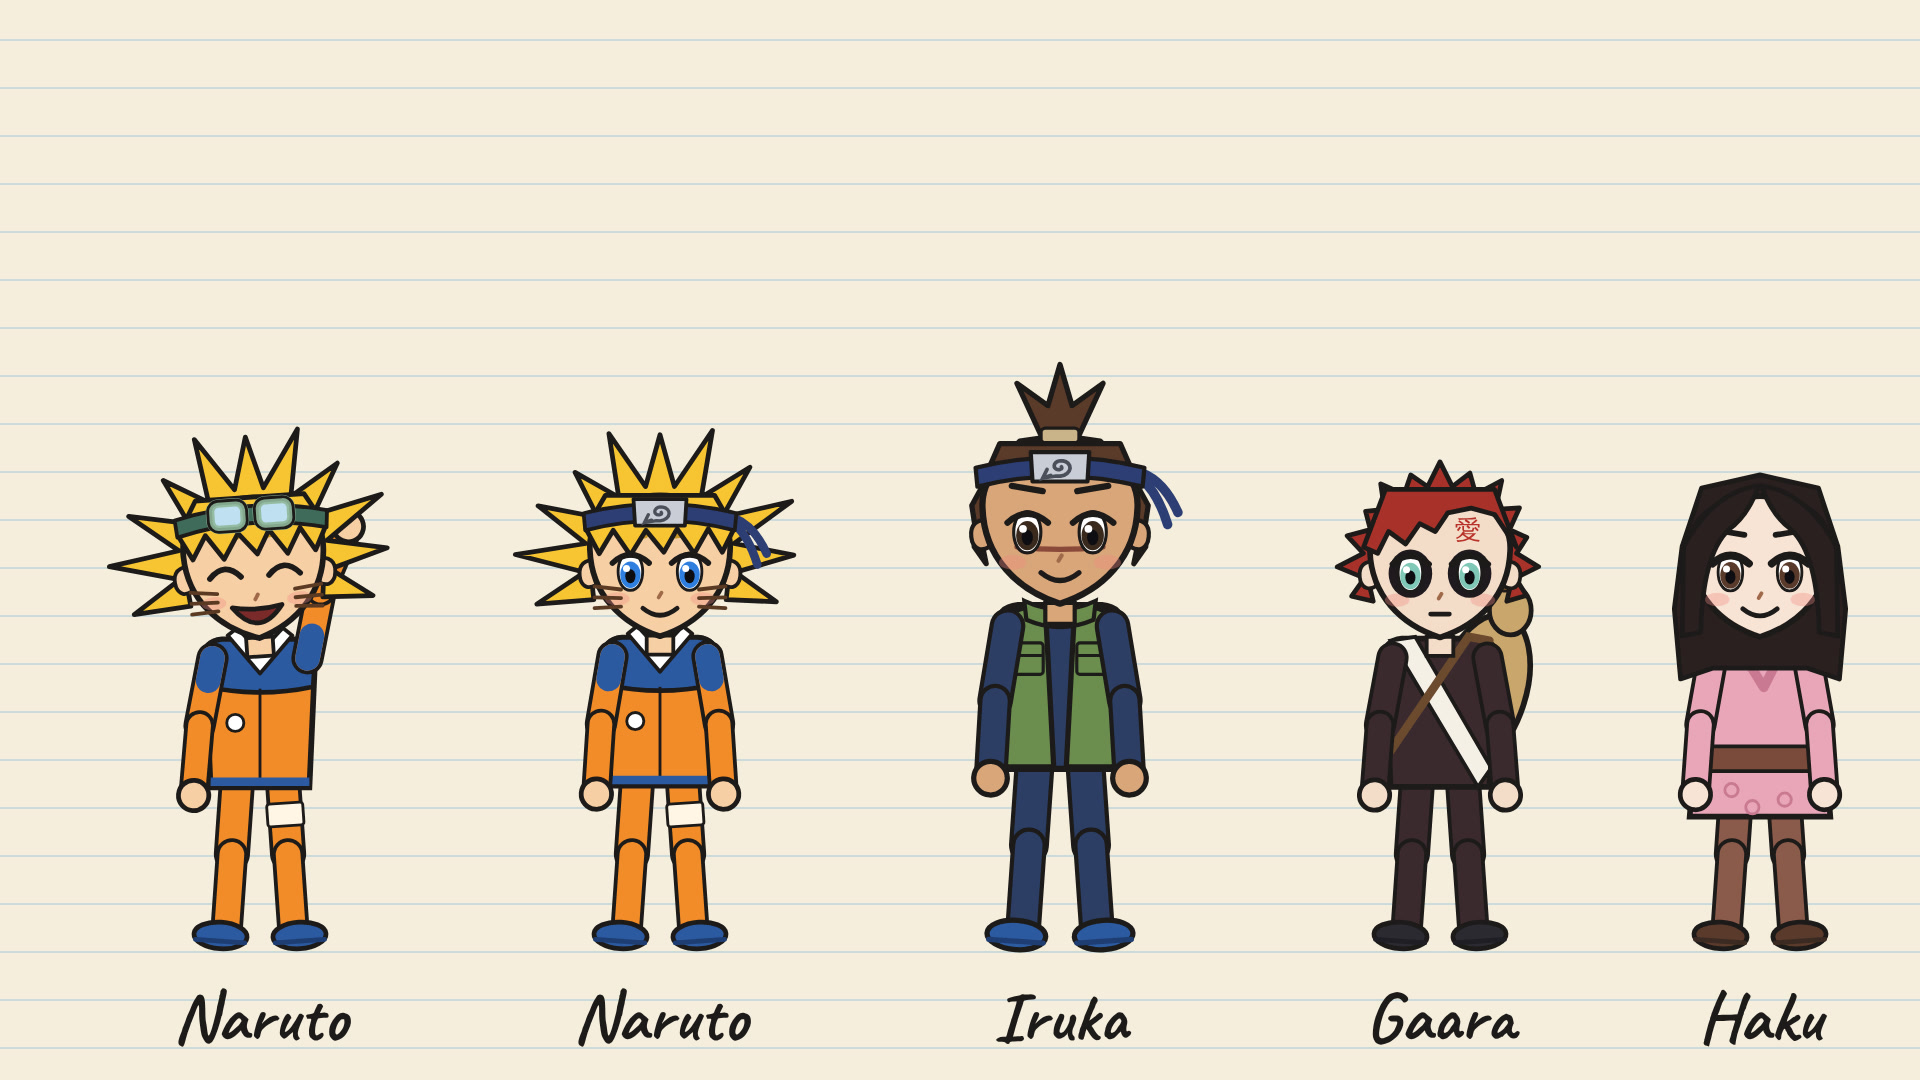
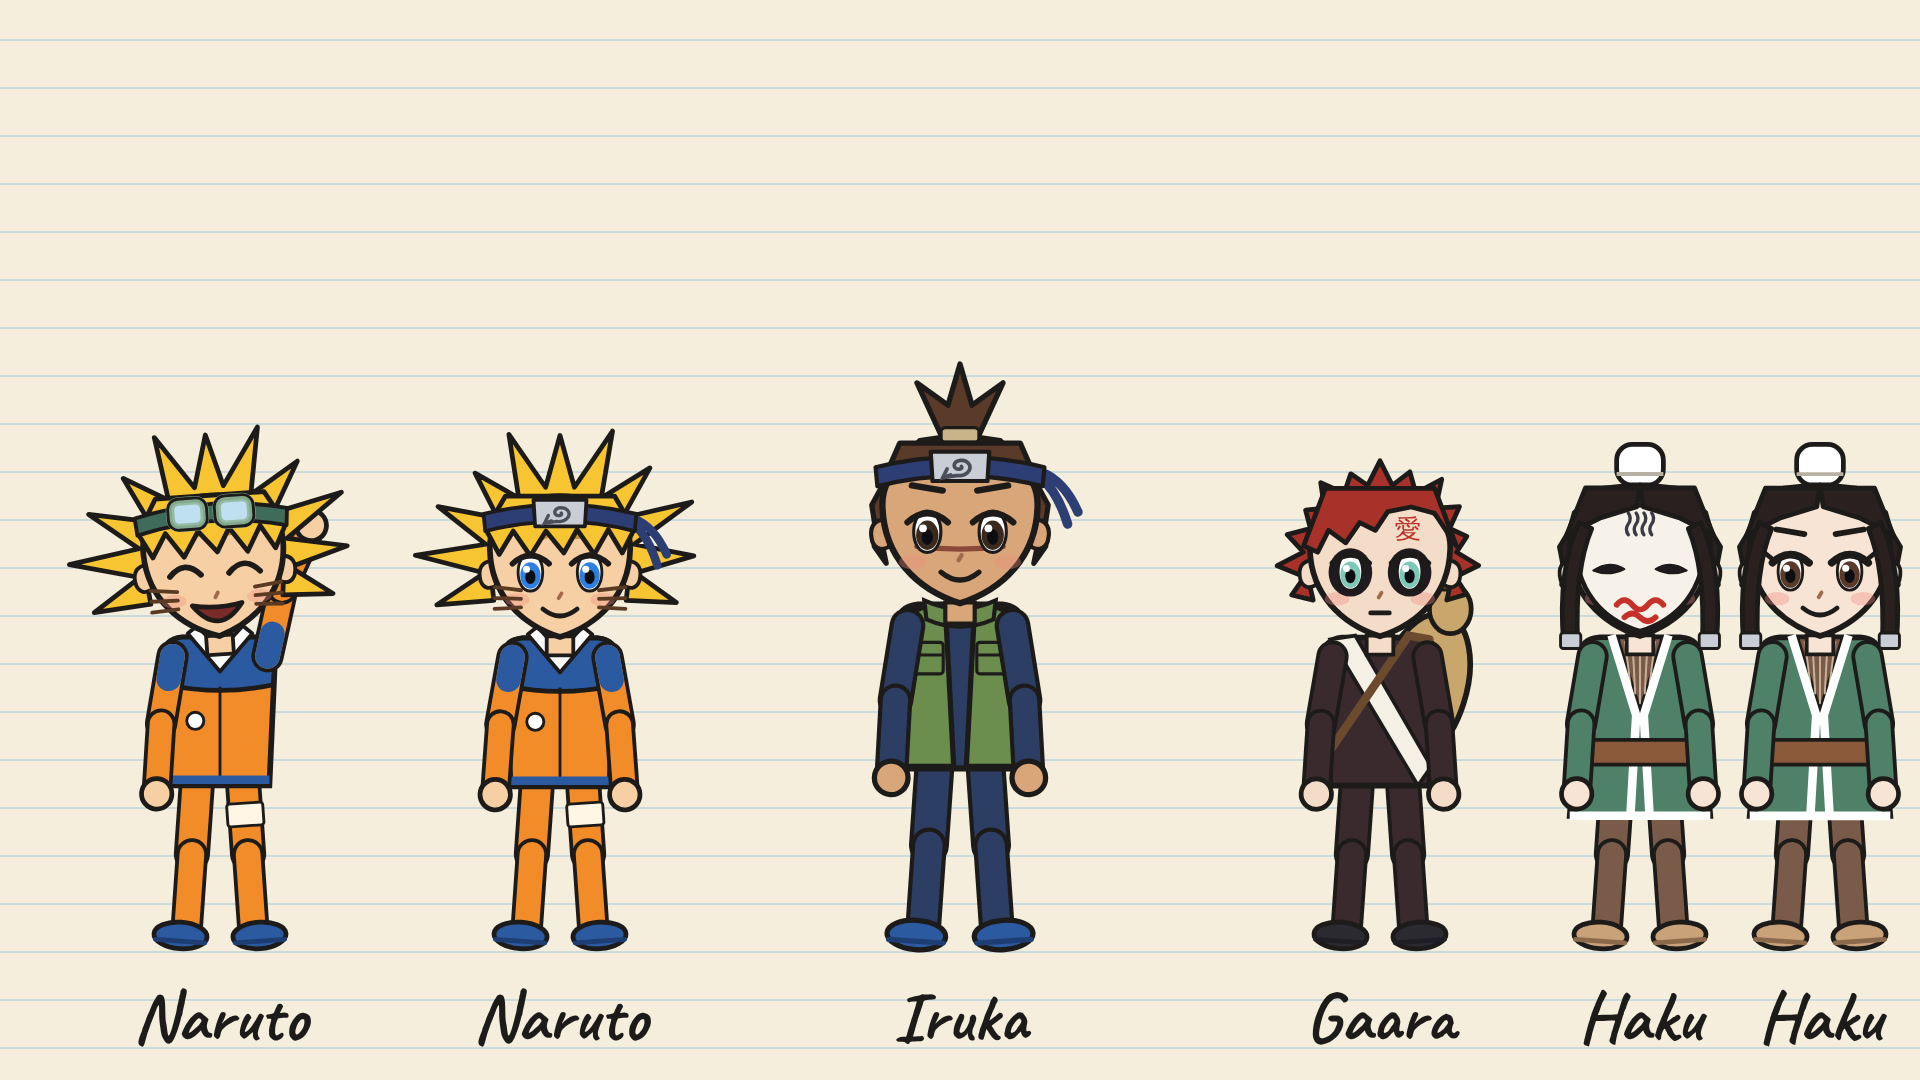
Social Ripple: Haku model sheet matched to canon; continuity standard
Claude-Session: https://claude.ai/code/session_01BFgAxmP7ubruifvaTKx5Vg

diff --git a/research/meta-muse/social-ripple/shorts/kit/cast.js b/research/meta-muse/social-ripple/shorts/kit/cast.js
@@ -18,7 +18,7 @@
       naruto: { skin: "#F6CFA4", hair: "#F7C531", hairStyle: "naruto", top: "#F28C28", top2: "#2C5AA0", pants: "#F28C28", shoe: "#2C5AA0", sole: "#1E3E73", eye: "#2F7FE0", whiskers: true, narutoJacket: true, holster: true, accs: ["goggles", "band"], acc: "goggles", brows: "thick", browCol: "#C9962A" },
       iruka: { skin: "#D9A679", hair: "#5A3A28", hairStyle: "topknot", top: "#2C3E63", top2: "#22304E", pants: "#2C3E63", shoe: "#2C5AA0", sole: "#1E3E73", eye: "#3A2A1E", noseScar: true, flak: "#6B8E4E", accs: ["band"], acc: "band" },
       gaara: { skin: "#F3DCC8", hair: "#A8322A", hairStyle: "gaara", top: "#3A2A2E", top2: "#2A1E22", pants: "#3A2A2E", shoe: "#2A2A30", sole: "#1E1E24", eye: "#7FC8B8", rings: true, noBrows: true, kanji: true, sash: true, gourd: true },
-      haku: { skin: "#F8E4D4", hair: "#2A2020", hairStyle: "hakulong", top: "#E8A6B8", top2: "#C97A92", pants: "#8A5A4A", shoe: "#5A3A2A", sole: "#3A2A22", eye: "#5A3A2A", lash: true, coat: true, kimono: true },
+      haku: { skin: "#F8E4D4", hair: "#2A2020", hairStyle: "hakubun", top: "#4F8068", top2: "#3E6653", pants: "#7A5A48", shoe: "#C9A27A", sole: "#8A6A4A", eye: "#5A3A2A", lash: true, coat: true, haori: true, accs: ["mask"], acc: "mask" },
       rue: { skin: "#F6D2B4", hair: "#6B3A22", hairStyle: "pony", top: "#F28C6A", top2: "#E07A58", pants: "#7F9CC8", shoe: "#F4F4F0", sole: "#C8A070", eye: "#3E8E5A", freckles: true, bandage: true, puffer: true, wide: true },
     };
     const POSES = {
@@ -61,7 +61,9 @@
       if (c.flak) { el("path", { d: "M-56,-132 Q-40,-150 -14,-146 L-6,6 L-54,6 Z M56,-132 Q40,-150 14,-146 L6,6 L54,6 Z", fill: c.flak, stroke: INK, "stroke-width": 5 }, torso); [-1, 1].forEach((d) => { el("rect", { x: d > 0 ? 16 : -46, y: -112, width: 30, height: 30, rx: 3, fill: c.flak, stroke: INK, "stroke-width": 3 }, torso); el("path", { d: `M${d > 0 ? 16 : -46},-100 h30`, stroke: INK, "stroke-width": 3 }, torso); });
         el("path", { d: "M-34,-152 Q0,-136 34,-152 L32,-134 Q0,-120 -32,-134 Z", fill: c.flak, stroke: INK, "stroke-width": 4 }, torso); }
       if (c.sash) { el("path", { d: "M-52,-146 L-26,-150 L54,-12 L40,8 Z", fill: "#F4F0E6", stroke: INK, "stroke-width": 4 }, torso); el("path", { d: "M52,-146 L30,-150 L-52,-30", fill: "none", stroke: "#6B4A2E", "stroke-width": 9, "stroke-linecap": "round" }, torso); }
-      if (c.kimono) { el("path", { d: "M-28,-148 L4,-96 L30,-148", fill: "none", stroke: c.top2, "stroke-width": 10, "stroke-linejoin": "round" }, torso); el("path", { d: "M-66,-34 H66 L68,-8 H-68 Z", fill: "#7A4A3A", stroke: INK, "stroke-width": 4 }, torso); [[-30, 12], [26, 22], [-8, 30]].forEach(([x2, y2]) => el("circle", { cx: x2, cy: y2, r: 7, fill: "none", stroke: c.top2, "stroke-width": 3 }, torso)); }
+      if (c.haori) { el("path", { d: "M-24,-148 L0,-70 L24,-148 Z", fill: "#7A5A48", stroke: INK, "stroke-width": 4 }, torso); for (let k = -2; k <= 2; k++) el("path", { d: `M${k * 8},-144 L${k * 5},-${78 + Math.abs(k) * 10}`, stroke: "#C9B49A", "stroke-width": 2 }, torso);
+        el("path", { d: "M-30,-150 L-4,-66 L-10,38 M30,-150 L4,-66 L10,38", fill: "none", stroke: "#FFFFFF", "stroke-width": 9, "stroke-linejoin": "round" }, torso); el("path", { d: "M-74,40 H74", stroke: "#FFFFFF", "stroke-width": 9 }, torso);
+        el("path", { d: "M-66,-40 H66 L68,-14 H-68 Z", fill: "#8A5A3A", stroke: INK, "stroke-width": 4 }, torso); }
       const det = el("g", {}); Array.from(torso.childNodes).slice(n0).forEach((nd) => det.appendChild(nd)); torso.appendChild(det);
       // ---- arms (shoulders at ±50,-128)
       const sleeve = c.top;
@@ -86,7 +88,7 @@
       if (c.hairStyle === "naruto") P(poly(ring(150, 390, 22, 0.98, 1.72, 0.14).concat([[0.9, 0.05], [-0.9, 0.05]])), c.hair, 5);
       if (c.hairStyle === "gaara") P(poly(ring(150, 390, 26, 0.99, 1.24, 0.08).concat([[0.95, 0.1], [-0.95, 0.1]])), c.hair, 5);
       if (c.hairStyle === "topknot") { P(poly([[-0.2, -0.95], [-0.5, -1.6], [-0.14, -1.34], [0, -1.82], [0.14, -1.34], [0.5, -1.6], [0.2, -0.95]]), c.hair, 5); P(poly(ring(150, 390, 18, 0.99, 1.04, 0.0).concat([[0.95, 0.05], [-0.95, 0.05]])), c.hair, 5); el("rect", { x: -18, y: -228 - 1.08 * r, width: 36, height: 14, rx: 4, fill: "#C9B48A", stroke: INK, "stroke-width": 3 }, headG); }
-      if (c.hairStyle === "hakulong") P(poly([[-1.0, -0.2], [-1.1, 0.6], [-1.02, 1.5], [-0.6, 1.36], [0.6, 1.36], [1.02, 1.5], [1.1, 0.6], [1.0, -0.2], [0.75, -0.95], [0, -1.12], [-0.75, -0.95]]), c.hair, 5);
+      if (c.hairStyle === "hakubun") { P(poly(ring(150, 390, 18, 0.99, 1.05, 0.0).concat([[0.95, 0.05], [-0.95, 0.05]])), c.hair, 5); el("rect", { x: -0.3 * r, y: -228 - 1.5 * r, width: 0.6 * r, height: 0.52 * r, rx: 0.2 * r, fill: "#FFFFFF", stroke: INK, "stroke-width": 5 }, headG); el("path", { d: `M${-0.3 * r},${-228 - 1.12 * r} h${0.6 * r}`, stroke: "#B8B0A2", "stroke-width": 4 }, headG); }
       if (c.hairStyle === "curtain") P(poly(ring(150, 390, 20, 1.0, 1.1, 0.0).concat([[1.0, 0.25], [-1.0, 0.25]])), c.hair, 5);
       if (c.hairStyle === "pony") { P(`M${U(0.35, -0.95)} Q${U(1.25, -1.35)} ${U(1.15, -0.4)} Q${U(1.05, 0.4)} ${U(1.3, 0.95)} Q${U(0.8, 0.55)} ${U(0.85, -0.3)} Z`, c.hair, 5); P(poly(ring(150, 390, 18, 0.99, 1.04, 0.0).concat([[0.95, 0.05], [-0.95, 0.05]])), c.hair, 5);
         el("rect", { x: 0.55 * r - 16, y: -228 - 0.98 * r - 10, width: 32, height: 20, rx: 6, fill: "#3E8E5A", stroke: INK, "stroke-width": 3 }, headG); }
@@ -125,6 +127,7 @@
       const mouths = {}; for (const m in MO) mouths[m] = el("path", { d: MO[m][0], fill: MO[m][1], stroke: INK, "stroke-width": 5, "stroke-linecap": "round", "stroke-linejoin": "round", style: "display:none" }, headG);
       const talk = el("path", { d: "", fill: "#7A2A2A", stroke: INK, "stroke-width": 5, "stroke-linejoin": "round", style: "display:none" }, headG);
       const faceG = el("g", {}); Array.from(headG.childNodes).slice(f0).forEach((nd) => faceG.appendChild(nd)); headG.appendChild(faceG);
+      const fh0 = headG.childNodes.length;
       // front hair
  if (c.hairStyle === "braidbun") P(poly([[-0.94, -0.32], [-0.6, -0.5], [-0.2, -0.56], [0.0, -0.5], [0.2, -0.56], [0.6, -0.5], [0.94, -0.32], [0.7, -0.92], [-0.7, -0.92]]), c.hair, 5);
       if (c.hairStyle === "fade") { P(poly([[-0.9, -0.42], [-0.6, -0.6], [-0.2, -0.66], [0.2, -0.66], [0.6, -0.6], [0.9, -0.42], [0.7, -0.9], [-0.7, -0.9]]), c.hair, 5); [[-0.5, -0.62], [-0.18, -0.68], [0.16, -0.68], [0.48, -0.62]].forEach(([u, v]) => el("circle", { cx: u * r, cy: -228 + v * r, r: 0.16 * r, fill: c.hair, stroke: INK, "stroke-width": 3 }, headG)); }
@@ -138,15 +141,21 @@
       if (c.hairStyle === "naruto") P(poly([[-0.95, -0.42], [-0.78, -0.1], [-0.6, -0.4], [-0.38, -0.08], [-0.18, -0.4], [0.05, -0.12], [0.22, -0.42], [0.44, -0.1], [0.62, -0.42], [0.8, -0.12], [0.95, -0.42], [0.7, -0.85], [-0.7, -0.85]]), c.hair, 5);
       if (c.hairStyle === "topknot") P(poly([[-0.92, -0.4], [-0.5, -0.58], [0, -0.64], [0.5, -0.58], [0.92, -0.4], [0.7, -0.9], [-0.7, -0.9]]), c.hair, 5);
       if (c.hairStyle === "gaara") P(poly([[-0.98, -0.2], [-0.8, -0.12], [-0.66, -0.4], [-0.44, -0.24], [-0.26, -0.5], [-0.06, -0.4], [0.1, -0.64], [0.4, -0.7], [0.7, -0.62], [0.98, -0.2], [0.7, -0.94], [-0.7, -0.94]]), c.hair, 5);
-      if (c.hairStyle === "hakulong") { P(`M${U(-0.02, -0.98)} Q${U(-0.6, -0.9)} ${U(-0.98, -0.2)} L${U(-1.0, 0.95)} L${U(-0.76, 0.9)} Q${U(-0.74, -0.1)} ${U(-0.4, -0.42)} Q${U(-0.15, -0.6)} ${U(-0.02, -0.98)} Z`, c.hair, 5); P(`M${U(0.02, -0.98)} Q${U(0.6, -0.9)} ${U(0.98, -0.2)} L${U(1.0, 0.95)} L${U(0.76, 0.9)} Q${U(0.74, -0.1)} ${U(0.4, -0.42)} Q${U(0.15, -0.6)} ${U(0.02, -0.98)} Z`, c.hair, 5); }
+      if (c.hairStyle === "hakubun") { P(poly([[-0.94, -0.34], [-0.5, -0.56], [-0.04, -0.7], [0, -0.98], [0.04, -0.7], [0.5, -0.56], [0.94, -0.34], [0.7, -0.94], [-0.7, -0.94]]), c.hair, 5);
+        [-1, 1].forEach((dd) => { P(`M${U(dd * 0.78, -0.5)} Q${U(dd * 1.06, 0.1)} ${U(dd * 0.98, 1.05)} L${U(dd * 0.8, 1.05)} Q${U(dd * 0.84, 0.1)} ${U(dd * 0.62, -0.42)} Z`, c.hair, 5); el("rect", { x: dd * 0.89 * r - 0.13 * r, y: -228 + 0.92 * r, width: 0.26 * r, height: 0.2 * r, rx: 3, fill: "#C9CED6", stroke: INK, "stroke-width": 3 }, headG); }); }
       if (c.kanji) { const kt = el("text", { x: 0.36 * r, y: -228 - 0.3 * r, "text-anchor": "middle", "font-family": "WenQuanYi Zen Hei, sans-serif", "font-size": 0.34 * r, "font-weight": 700, fill: "#B8322A" }, headG); kt.textContent = "愛"; }
       const accs = {};
       for (const an of (c.accs || [])) { const ag = G(headG, { style: "display:none" }); accs[an] = ag; const col = an === "band" ? "#2C3E73" : "#3F6B5A";
+        if (an === "mask") { P(`M${U(-0.84, -0.3)} C${U(-0.88, -0.86)} ${U(0.88, -0.86)} ${U(0.84, -0.3)} C${U(0.84, 0.4)} ${U(0.46, 0.76)} ${U(0, 0.9)} C${U(-0.46, 0.76)} ${U(-0.84, 0.4)} ${U(-0.84, -0.3)} Z`, "#F6F2EA", 5, ag);
+          [-1, 1].forEach((dd) => P(`M${U(dd * 0.2, 0.1)} Q${U(dd * 0.4, -0.02)} ${U(dd * 0.6, 0.12)} Q${U(dd * 0.4, 0.2)} ${U(dd * 0.2, 0.1)} Z`, "#1E1A1E", 2, ag));
+          el("path", { d: `M${U(-0.3, 0.56)} q${0.1 * r},${-0.12 * r} ${0.2 * r},0 t${0.2 * r},0 t${0.2 * r},0 M${U(-0.2, 0.72)} q${0.1 * r},${-0.1 * r} ${0.2 * r},0 t${0.2 * r},0`, fill: "none", stroke: "#C62F2A", "stroke-width": 6, "stroke-linecap": "round" }, ag);
+          for (let k = 0; k < 4; k++) el("path", { d: `M${U(-0.15 + k * 0.1, -0.62)} q${0.05 * r},${0.07 * r} 0,${0.14 * r} q${-0.05 * r},${0.07 * r} 0,${0.14 * r}`, fill: "none", stroke: "#3A3A44", "stroke-width": 3.5, "stroke-linecap": "round" }, ag); continue; }
         if (an === "band") P(`M${U(0.95, -0.56)} q${0.26 * r},${0.1 * r} ${0.42 * r},${0.46 * r} M${U(0.95, -0.48)} q${0.18 * r},${0.14 * r} ${0.3 * r},${0.52 * r}`, "none", 9, ag).setAttribute("stroke", col);
         P(`M${U(-0.98, -0.62)} Q${U(0, -0.86)} ${U(0.98, -0.62)} L${U(0.96, -0.4)} Q${U(0, -0.64)} ${U(-0.96, -0.4)} Z`, col, 4, ag);
         if (an === "band") { P(`M${U(-0.34, -0.8)} L${U(0.34, -0.8)} L${U(0.32, -0.46)} L${U(-0.32, -0.46)} Z`, "#C9CED6", 4, ag); const sp = []; for (let i = 0; i <= 24; i++) { const a = i / 24 * Math.PI * 2.6, rr = 0.012 + i / 24 * 0.1; sp.push(U(Math.cos(a) * rr * 1.3, -0.63 + Math.sin(a) * rr)); }
           el("path", { d: `M${sp.join(" L")} L${U(-0.2, -0.5)} M${U(-0.11, -0.53)} L${U(-0.2, -0.5)} L${U(-0.15, -0.6)}`, fill: "none", stroke: "#4A4F5A", "stroke-width": 3.5, "stroke-linecap": "round" }, ag); }
         else [-1, 1].forEach((dd) => { el("rect", { x: dd * 0.3 * r - 0.22 * r, y: -228 - 0.8 * r, width: 0.44 * r, height: 0.34 * r, rx: 9, fill: "#BFE0F0", stroke: INK, "stroke-width": 4 }, ag); el("rect", { x: dd * 0.3 * r - 0.22 * r, y: -228 - 0.8 * r, width: 0.44 * r, height: 0.34 * r, rx: 9, fill: "none", stroke: "#8FB89A", "stroke-width": 9, "stroke-opacity": 0.9 }, ag); el("rect", { x: dd * 0.3 * r - 0.25 * r, y: -228 - 0.83 * r, width: 0.5 * r, height: 0.4 * r, rx: 11, fill: "none", stroke: INK, "stroke-width": 3 }, ag); }); }
+      if (accs.mask) headG.insertBefore(accs.mask, headG.childNodes[fh0]);
       if (c.clips) [[-0.62, -0.42], [-0.44, -0.5]].forEach(([u, v]) => el("rect", { x: u * r - 14, y: -228 + v * r - 4, width: 28, height: 8, rx: 3, fill: "#F2C230", stroke: INK, "stroke-width": 3, transform: `rotate(-20 ${u * r} ${-228 + v * r})` }, headG));
       const glassG = G(headG);
       if (c.glasses) { [-1, 1].forEach((d) => el("circle", { cx: d * 0.38 * r, cy: -228 + 0.14 * r, r: 0.27 * r, fill: "#FFFFFF", "fill-opacity": 0.12, stroke: "#3A2A22", "stroke-width": 6 }, glassG)); el("path", { d: `M${U(-0.11, 0.1)} Q${U(0, 0.04)} ${U(0.11, 0.1)}`, fill: "none", stroke: "#3A2A22", "stroke-width": 6 }, glassG); }

diff --git a/research/meta-muse/social-ripple/cast/cast.html b/research/meta-muse/social-ripple/cast/cast.html
@@ -13,7 +13,7 @@ document.fonts.ready.then(() => {
   if (mode === "sheet") {
     [["nia", 300, "wave", "smile"], ["kai", 780, "fist", "determined"], ["mo", 1260, "stand", "neutral"], ["rue", 1700, "cheer", "grin"]].forEach(([n, x, p, f]) => { const h = C.make(g, n, x, 960, 1.0, 0); h.key(0, p, 0).face(0, f); hs.push(h); lab(n[0].toUpperCase() + n.slice(1), x, 1050); });
   } else if (mode === "anime") {
-    [["naruto", 260, "fist", "grin", "goggles"], ["naruto", 660, "stand", "smile", "band"], ["iruka", 1060, "stand", "smile", "band"], ["gaara", 1440, "stand", "neutral", ""], ["haku", 1760, "stand", "smile", ""]].forEach(([n, x, p, f, a]) => { const h = C.make(g, n, x, 940, n === "iruka" ? 1.05 : 0.95, 0); h.key(0, p, 0).face(0, f); if (a) h.acc(0, a); hs.push(h); lab(n[0].toUpperCase() + n.slice(1), x, 1040); });
+    [["naruto", 220, "fist", "grin", "goggles"], ["naruto", 560, "stand", "smile", "band"], ["iruka", 960, "stand", "smile", "band"], ["gaara", 1380, "stand", "neutral", ""], ["haku", 1640, "stand", "smile", "mask"], ["haku", 1820, "stand", "smile", "none"]].forEach(([n, x, p, f, a]) => { const h = C.make(g, n, x, 940, n === "iruka" ? 1.05 : 0.95, 0); h.key(0, p, 0).face(0, f); if (a) h.acc(0, a); hs.push(h); lab(n[0].toUpperCase() + n.slice(1), x, 1040); });
   } else {
     const a = C.make(g, "kai", 500, 900, 1.0, 0); a.key(0, "pushUp", 0).face(0, "determined"); hs.push(a);
     const b = C.make(g, "kai", 1300, 900, 1.0, 0); b.key(0, "pushDown", 0).face(0, "strain"); hs.push(b);

diff --git a/research/meta-muse/social-ripple/CONTENT-STANDARDS.md b/research/meta-muse/social-ripple/CONTENT-STANDARDS.md
@@ -43,6 +43,7 @@ Working assumption: the algorithm shows people what they're thinking about. Ever
 
 ## 6b. Characters: who appears when
 - **Anime characters when the lesson references them.** When the narration is telling an anime moment, that anime's characters are on screen, drawn and animated in our own style with accurate signature details (hair, eyes, outfit, marks, props, and canon touches such as Naruto's goggles before he earns the headband). Check every detail against references first; a fan must never think "that doesn't look like him".
+- **Continuity is absolute.** Each anime character has one locked model sheet (saved in `cast/`) that matches canon: correct outfit, colours, accessories and marks for the era or scene being referenced (for example Haku's hunter-nin mask, green haori and bun holder; Naruto's goggles before the headband). The same design is reused in every episode, Short and cover. Check the model sheet against references before first use, and never improvise colours or outfits.
 - **The Social Ripple crew for everything else:** hosting, the viewer's own situations, study explanations, conclusions, summaries, the small step and the outro. Nia, Kai, Mo and Rue have common hairstyles and current streetwear so viewers see themselves in them.
 - **Story-specific extras** are created per episode as needed.
 - **All drawn by us:** no official art, screenshots, footage, logos or soundtrack. Plot is told in our own words; no dialogue quoted beyond a few words.
@@ -77,7 +78,7 @@ Working assumption: the algorithm shows people what they're thinking about. Ever
 - [ ] Each lesson has a one-sentence core truth that gets its own moment?
 - [ ] Ends on a better next thought + a comment prompt asking for their version?
 - [ ] Cover = relatable situation + body sensation + mystery + specific number?
-- [ ] Anime characters when referenced (details checked), crew for conclusions; always alive; correct anatomy; actions matching the narration?
+- [ ] Anime characters when referenced, matching their locked canon model sheets (outfit, colours, accessories); crew for conclusions; always alive; correct anatomy; actions matching the narration?
 - [ ] Camera never still; new move at least every ~4 s (1.5–2.5 s in Shorts); punch-ins on key words; push-in on the core truth?
 - [ ] (Shorts) first frame = cover, hook < 2 s, 20–30 s, loops?
 - [ ] No shame or fear-bait; suggestions labelled as ours; care line on heavy topics?

diff --git a/research/meta-muse/social-ripple/cast/CAST.md b/research/meta-muse/social-ripple/cast/CAST.md
@@ -9,4 +9,4 @@ All four are our own designs, rigged in `../shorts/kit/cast.js` (joints, poses, 
 | **Mo** | The quiet one who feels left out | Middle-part curtain hair | Black hoodie under a grey puffer vest, baggy jeans, headphones round the neck |
 | **Rue** | The loyal friend who shows up | Sleek high ponytail, claw clip | Cropped coral puffer over a white tee, light-wash baggy jeans, low-profile sneakers |
 
-Anime characters: when a lesson references an anime moment, that anime's characters appear, drawn by us on the same rig (so far: Naruto with goggles/headband, Iruka, Gaara, Haku). The crew handles hosting, viewer situations, conclusions and summaries.
+Anime characters: when a lesson references an anime moment, that anime's characters appear, drawn by us on the same rig with locked model sheets that match canon (see `naruto-characters-sheet.jpg`): Naruto (Part 1 orange-and-blue jumpsuit; goggles before the headband), Iruka (flak vest, nose scar, ponytail), Gaara (red hair, forehead kanji, dark outfit, white sash, gourd), Haku (hunter-nin mask, green haori with white trim over a brown pinstriped outfit, brown sash, white bun holder, two cuffed front locks). The crew handles hosting, viewer situations, conclusions and summaries.
